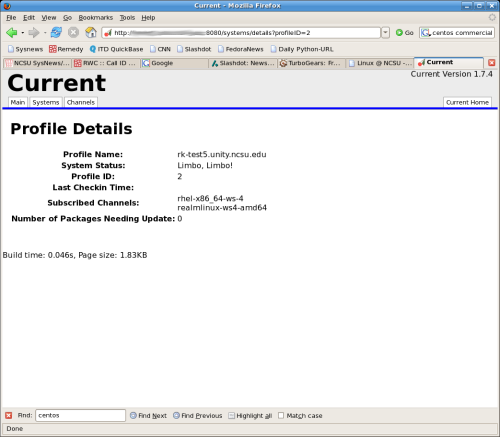
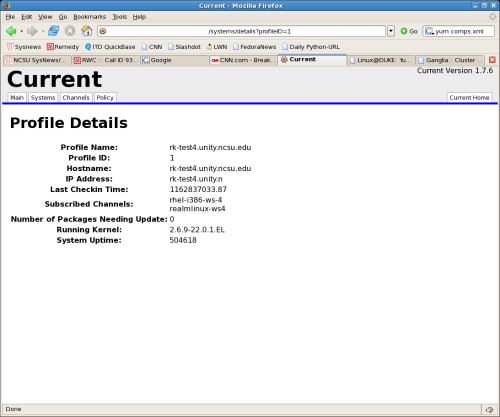
Screenshot updates for the web page.
git-svn-id: http://current.tigris.org/svn/current/trunk@312 7112b371-5efc-0310-9db1-efd4ebc68ee9

diff --git a/www/screenshots.html b/www/screenshots.html
@@ -18,8 +18,12 @@ you are redirected to the login page.</p>
 
 <img src="systemDetail.png" />
 
-<p>The detail page for a registered system.  The System Status and Last
-Checkin Time are not recorded in the database as of 1.7.5.</p>
+<p>The detail page for a registered system.</p>
+
+<img src="hieracracy.png" />
+
+<p>Systems are grouped in a hieracracy tree.  System administrators can
+modify systems in their assinged node and in child nodes.</p>
 
 </body>
 </html>

diff --git a/www/index.html b/www/index.html
@@ -99,6 +99,8 @@ thousands of machines.</p>
 
 <ul>
 
+    <li><p><b><a href="screenshots.html">Screenshots</a></p></li>
+
     <li><p><b><a href="faq.html">Current FAQ</a></b></p></li>
 
     <li><p><b><a href="current-guide/">Current Manual</a> - </b>This is the
